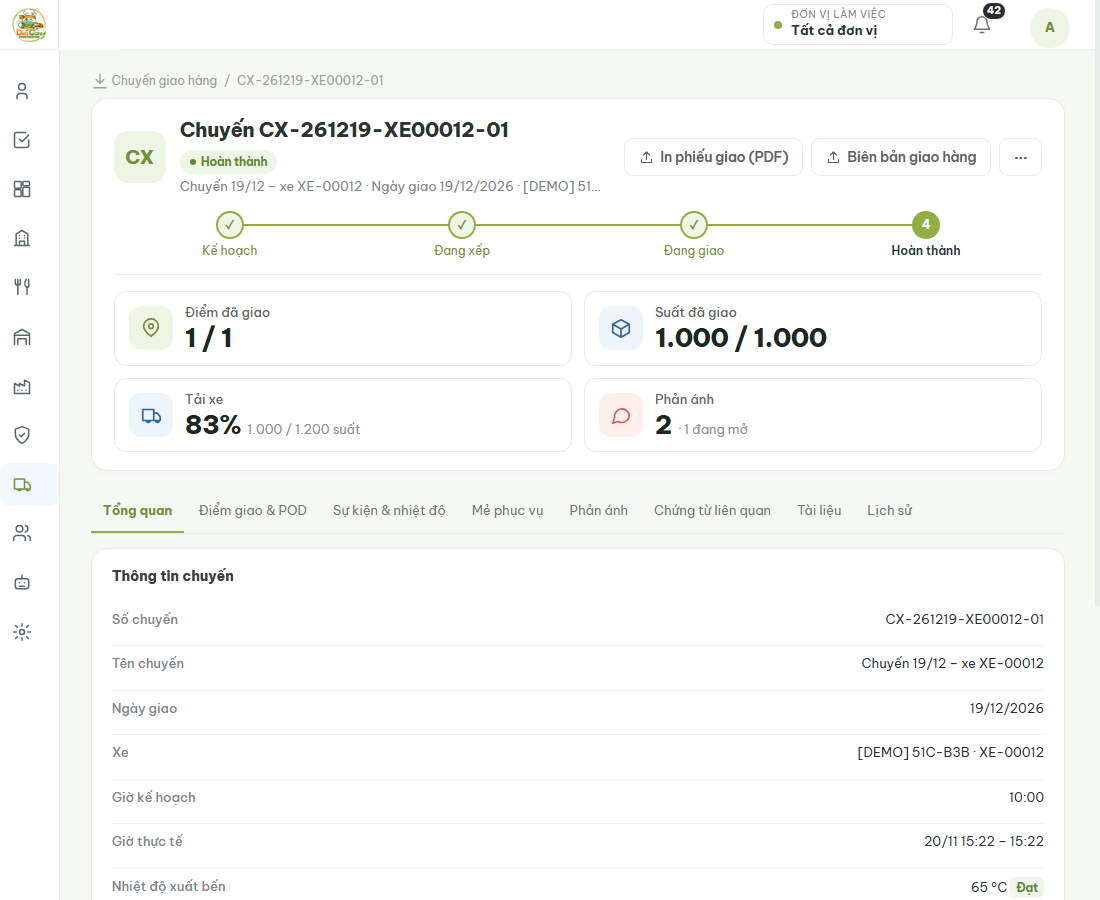
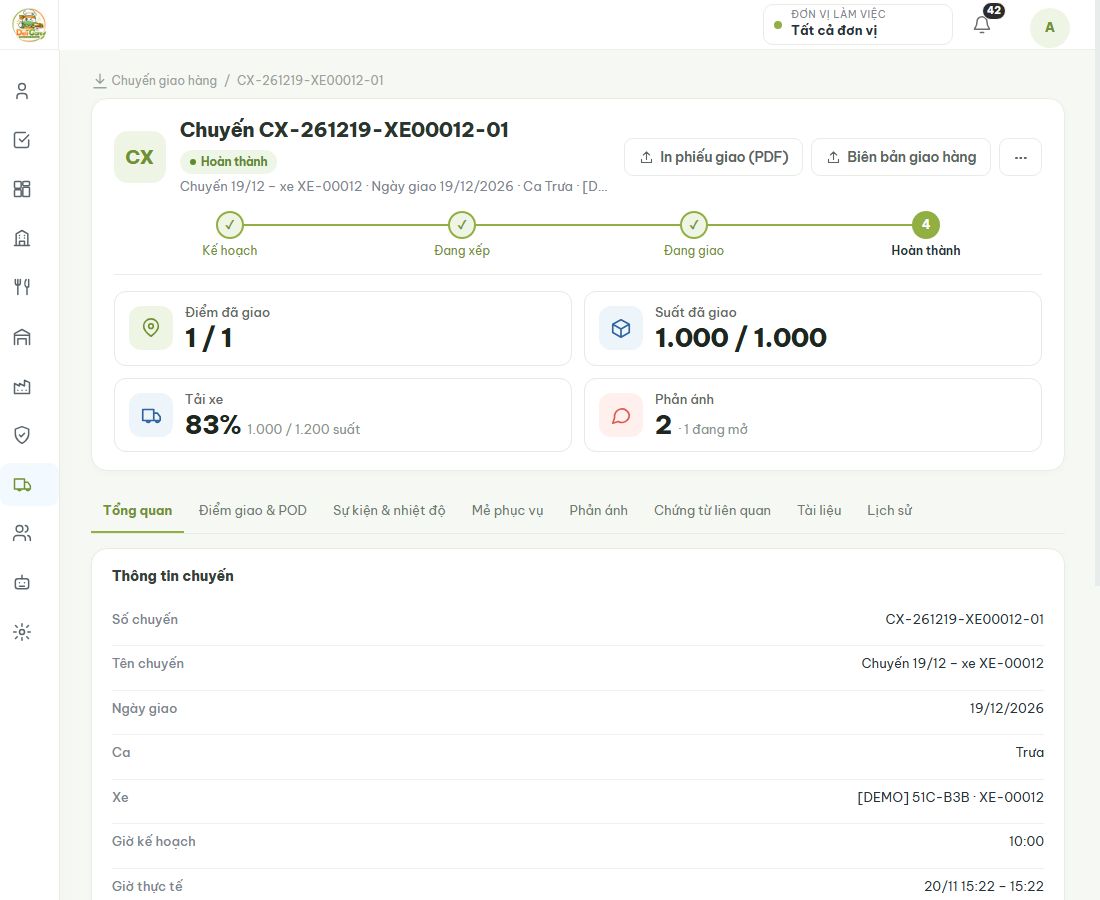
UI-6 (GAP): % đã nhận PO tính theo giá trị (không cộng số lượng khác đơn vị – GAP-PUR-01); ca của chuyến giao suy từ OrderLine.ShiftId (shiftNames, hiện ở phần đầu + Tổng quan); 2 test (608 / 608); PROGRESS ghi 3 điểm BOT-UX-2 anh đã đồng ý

diff --git a/app-delicare-client/src/assets/delicare/js/modules/detail-prod.js b/app-delicare-client/src/assets/delicare/js/modules/detail-prod.js
@@ -285,7 +285,7 @@
       return {
         title: 'Chuyến ' + (r.routeNo || ''), no: r.routeNo, avatar: 'CX', avatarCls: 'biz',
         tags: [s ? UI.badge(s, 'DeliveryRoute', 'Status') : '', (d.listBlocker || []).length && ['Planned', 'Loading'].includes(s) ? UI.tag('Chưa đủ điều kiện xuất bến', 'orange') : ''],
-        meta: [r.name && esc(r.name), 'Ngày giao ' + D.dmy(r.deliveryDate), esc([d.licensePlate || d.vehicleCode, d.driverName && 'Tài xế ' + d.driverName].filter(Boolean).join(' · '))],
+        meta: [r.name && esc(r.name), 'Ngày giao ' + D.dmy(r.deliveryDate), (o.shiftNames || []).length && esc('Ca ' + o.shiftNames.join(', ')), esc([d.licensePlate || d.vehicleCode, d.driverName && 'Tài xế ' + d.driverName].filter(Boolean).join(' · '))],
         steps: D.stepsOf(RFLOW, s, [], st('DeliveryRoute', 'Status')),
         buttons: [
           { act: 'load', icon: 'package', label: 'Xếp hàng lên xe', ok: edit && s === 'Planned', primary: true },
@@ -309,7 +309,7 @@
       const d = o.detail || {}, r = d.route || {}, stops = d.listStop || [];
       const tempOk = !nil(d.departureTemperatureC) && d.departureTemperatureC >= (d.deliveryTempMinC || 0);
       box.innerHTML = D.split(
-        D.block('Thông tin chuyến', D.kv([['Số chuyến', esc(r.routeNo || '')], ['Tên chuyến', esc(r.name || '')], ['Ngày giao', D.dmy(r.deliveryDate)],
+        D.block('Thông tin chuyến', D.kv([['Số chuyến', esc(r.routeNo || '')], ['Tên chuyến', esc(r.name || '')], ['Ngày giao', D.dmy(r.deliveryDate)], ['Ca', esc((o.shiftNames || []).join(', ') || '–')],
           ['Xe', esc([d.licensePlate, d.vehicleCode].filter(Boolean).join(' · '))], ['Tài xế', esc(d.driverName || '')],
           ['Giờ kế hoạch', esc([U.time(r.plannedStart), r.plannedEnd && U.time(r.plannedEnd)].filter(Boolean).join(' – '))],
           ['Giờ thực tế', esc([r.actualStart && U.dt(r.actualStart), r.actualEnd && U.time(r.actualEnd)].filter(Boolean).join(' – '))],

diff --git a/AppDelicare/AppDelicare.Tests/DetailPages/DetailPageRelatedDocsTests.cs b/AppDelicare/AppDelicare.Tests/DetailPages/DetailPageRelatedDocsTests.cs
@@ -60,6 +60,51 @@ namespace AppDelicare.Tests.DetailPages
             (await Rel("GoodsReceipt", gr)).Should().Equal(("PurchaseOrder", 1), ("MaterialLot", 1), ("SupplierIssue", 0));
         }
 
+        [Fact]
+        public async Task PurchaseOrder_received_percent_is_value_weighted_across_units()
+        {
+            // 10 kg thịt × 100.000 đã nhận đủ; 1.000 g gia vị × 1.000 chưa nhận → theo giá trị 50 % (cộng số lượng khác đơn vị sẽ ra ~1 %).
+            string k = Guid.NewGuid().ToString("N")[..6];
+            Guid wh = Guid.NewGuid(), kg = Guid.NewGuid(), g = Guid.NewGuid(), meat = Guid.NewGuid(), spice = Guid.NewGuid(), sup = Guid.NewGuid(), po = Guid.NewGuid(), gr = Guid.NewGuid();
+            await factory.SeedAsync(db =>
+            {
+                db.Warehouse.Add(new Warehouse { Id = wh, Code = "KHO-P" + k, Name = "Kho " + k });
+                db.UnitMeasure.AddRange(new UnitMeasure { Id = kg, Code = "KG-P" + k, Name = "kg" }, new UnitMeasure { Id = g, Code = "G-P" + k, Name = "g" });
+                db.Ingredient.AddRange(new Ingredient { Id = meat, Code = "NL-P1" + k, Name = "Thịt " + k, BaseUnitId = kg }, new Ingredient { Id = spice, Code = "NL-P2" + k, Name = "Tiêu " + k, BaseUnitId = g });
+                db.Supplier.Add(new Supplier { Id = sup, Code = "NCC-P" + k, Name = "NCC " + k, Status = "Active" });
+                db.PurchaseOrder.Add(new PurchaseOrder { Id = po, PurchaseOrderNumber = "PO-P" + k, SupplierId = sup, OrderDate = Day, Status = "PartiallyReceived", TotalAmount = 2_000_000 });
+                db.PurchaseOrderLine.AddRange(
+                    new PurchaseOrderLine { Id = Guid.NewGuid(), PurchaseOrderId = po, IngredientId = meat, Quantity = 10, UnitId = kg, UomId = kg, UnitPrice = 100_000, LineAmount = 1_000_000 },
+                    new PurchaseOrderLine { Id = Guid.NewGuid(), PurchaseOrderId = po, IngredientId = spice, Quantity = 1000, UnitId = g, UomId = g, UnitPrice = 1_000, LineAmount = 1_000_000 });
+                db.GoodsReceipt.Add(new GoodsReceipt { Id = gr, ReceiptNumber = "PN-P" + k, PurchaseOrderId = po, SupplierId = sup, WarehouseId = wh, ReceiptDate = Day, Status = "Posted" });
+                db.GoodsReceiptLine.Add(new GoodsReceiptLine { Id = Guid.NewGuid(), GoodsReceiptId = gr, IngredientId = meat, UnitId = kg, UomId = kg, Quantity = 10, ReceivedQuantity = 10, AcceptedQuantity = 10, UnitCost = 100_000 });
+                return Task.CompletedTask;
+            });
+            using var admin = factory.CreateAuthorizedClient();
+            var o = (await admin.GetResultAsync($"/api/PurchaseOrder/GetOverview?id={po}")).Ok();
+            o.GetProperty("receivedPercent").GetDecimal().Should().Be(50);
+        }
+
+        [Fact]
+        public async Task Route_overview_shows_shift_derived_from_its_orders()
+        {
+            string k = Guid.NewGuid().ToString("N")[..6];
+            Guid shift = Guid.NewGuid(), cust = Guid.NewGuid(), order = Guid.NewGuid(), route = Guid.NewGuid();
+            await factory.SeedAsync(db =>
+            {
+                db.Shift.Add(new Shift { Id = shift, Code = "CA-S" + k, Name = "Ca trưa " + k, StartTime = new TimeSpan(10, 30, 0), EndTime = new TimeSpan(13, 30, 0), Status = "Active" });
+                db.Customer.Add(new Customer { Id = cust, CIF = Guid.NewGuid().ToString("N")[..10], CustomerType = "FACTORY", DisplayName = "KH", Code = "KH-S" + k, Name = "Khách " + k, BranchId = Guid.NewGuid(), Status = "Active" });
+                db.Order.Add(new Order { Id = order, OrderNumber = "DH-S" + k, OrderNo = "DH-S" + k, CustomerId = cust, OrderDate = Day, MealDate = Day, DeliveryDate = Day, Status = "Confirmed" });
+                db.OrderLine.Add(new OrderLine { Id = Guid.NewGuid(), OrderId = order, ShiftId = shift, MealType = "LUNCH", Quantity = 100 });
+                db.DeliveryRoute.Add(new DeliveryRoute { Id = route, RouteNo = "CX-S" + k, Code = "CX-S" + k, DeliveryDate = Day, Status = "Planned" });
+                db.DeliveryOrder.Add(new DeliveryOrder { Id = Guid.NewGuid(), DeliveryNumber = "PG-S" + k, DeliveryNo = "PG-S" + k, OrderId = order, CustomerId = cust, DeliveryDate = Day, DeliveryRouteId = route, Status = "Planned" });
+                return Task.CompletedTask;
+            });
+            using var admin = factory.CreateAuthorizedClient();
+            var o = (await admin.GetResultAsync($"/api/DeliveryRoute/GetOverview?id={route}")).Ok();
+            o.GetProperty("shiftNames").EnumerateArray().Select(x => x.GetString()).Should().Equal("Ca trưa " + k);
+        }
+
         [Theory]
         [InlineData("Employee")]
         [InlineData("Ingredient")]

diff --git a/AppDelicare/AppDelicare.Services/Implement/PurchaseOrderService.cs b/AppDelicare/AppDelicare.Services/Implement/PurchaseOrderService.cs
@@ -702,11 +702,18 @@ namespace AppDelicare.Services.Implement
                     };
                 }).ToList();
                 decimal ordered = detail.ListLine.Sum(l => l.Quantity), received = detail.ListLine.Sum(l => l.ReceivedQuantity);
+                // % đã nhận: mỗi dòng tự đúng đơn vị của nó → gộp theo GIÁ TRỊ (Σ min(nhận, đặt) × giá / Σ đặt × giá) chứ không cộng số lượng khác đơn vị (GAP-PUR-01);
+                // PO chưa có giá → trung bình % từng dòng. Nhận vượt không làm % > 100.
+                var priced = detail.ListLine.Where(l => l.Quantity > 0 && l.UnitPrice > 0).ToList();
+                decimal pctBase = priced.Sum(l => l.Quantity * l.UnitPrice);
+                decimal receivedPercent = pctBase > 0
+                    ? priced.Sum(l => Math.Min(l.ReceivedQuantity, l.Quantity) * l.UnitPrice) / pctBase * 100m
+                    : detail.ListLine.Where(l => l.Quantity > 0).Select(l => Math.Min(l.ReceivedQuantity / l.Quantity, 1m) * 100m).DefaultIfEmpty(0m).Average();
                 return Result<PurchaseOrderOverviewModel>.Success(new PurchaseOrderOverviewModel
                 {
                     Detail = detail, ApprovalRequestId = await _approvalRequestService.LatestRequestIdAsync(PurchaseOrderStatus.BusinessType, id),
                     LineCount = detail.ListLine.Count, ReceiptCount = receipts.Count(r => r.Status != GoodsReceiptStatus.Cancelled),
-                    OrderedQuantity = ordered, ReceivedQuantity = received, ReceivedPercent = ordered > 0 ? Math.Round(received / ordered * 100m, 1) : 0m,
+                    OrderedQuantity = ordered, ReceivedQuantity = received, ReceivedPercent = Math.Round(receivedPercent, 1),
                     RemainingLineCount = detail.ListLine.Count(l => l.RemainingQuantity > 0),
                     RejectedQuantity = qc.Where(r => r.Status != GoodsReceiptStatus.Cancelled).Sum(r => r.RejectedQuantity),
                     ListReceiptQc = qc,

diff --git a/AppDelicare/AppDelicare.Services/Implement/DeliveryRouteService.cs b/AppDelicare/AppDelicare.Services/Implement/DeliveryRouteService.cs
@@ -1255,9 +1255,17 @@ namespace AppDelicare.Services.Implement
                                             ComplaintStatus = c.ComplaintStatus, ReceivedAt = c.ReceivedAt, Description = c.Description,
                                         }).ToListAsync();
                 var stops = detail.ListStop;
+                // Chuyến không có cột ca → suy từ ca của các dòng đơn trên các phiếu giao của chuyến (OrderLine.ShiftId).
+                var shiftNames = await (from d in db.DeliveryOrder.AsNoTracking()
+                                        where !d.IsDeleted && d.DeliveryRouteId == id
+                                        join l in db.OrderLine.AsNoTracking() on d.OrderId equals l.OrderId
+                                        where !l.IsDeleted && l.ShiftId != null
+                                        join sh in db.Shift.AsNoTracking() on l.ShiftId equals sh.Id
+                                        select sh.Name ?? sh.Code).Distinct().ToListAsync();
                 return Result<DeliveryRouteOverviewModel>.Success(new DeliveryRouteOverviewModel
                 {
                     Detail = detail,
+                    ShiftNames = shiftNames.Where(n => !string.IsNullOrWhiteSpace(n)).OrderBy(n => n).ToList()!,
                     StopCount = stops.Count,
                     DeliveredStopCount = stops.Count(s => s.StopStatus == DeliveryStopStatus.Delivered),
                     FailedStopCount = stops.Count(s => s.StopStatus == DeliveryStopStatus.Failed),

diff --git a/AppDelicare/AppDelicare.Model/Model/DetailPageProdModels.cs b/AppDelicare/AppDelicare.Model/Model/DetailPageProdModels.cs
@@ -120,6 +120,8 @@ namespace AppDelicare.Model.Model
     public class DeliveryRouteOverviewModel
     {
         public DeliveryRouteDetailModel Detail { get; set; } = new();
+        /// <summary>Ca suy từ các đơn trên chuyến (DeliveryRoute không có ShiftId).</summary>
+        public List<string> ShiftNames { get; set; } = [];
         public int StopCount { get; set; }
         public int DeliveredStopCount { get; set; }
         public int FailedStopCount { get; set; }

diff --git a/docs/claude/PROGRESS.md b/docs/claude/PROGRESS.md
@@ -9,12 +9,14 @@
   - Nút phần đầu gọi lại **đúng** thao tác đang có ở danh sách (`APP.scmStockCount / scmPo / scmGr / scmPr / scmLot / crmOrder / crmContract / logComplaint / prodBatch / prodOrder / prodPlan / logRoute`); chế độ DEMO giữ ngăn trượt. Quyền mỗi API = Xem màn danh sách gốc. Không thêm bảng / cột.
   - **6.3 Kiểm thử:** `Tests/DetailPages` 15 test (dữ liệu, id sai, rỗng, quyền 200 / 403); toàn bộ **588 / 588** sau gộp nhóm; Chrome headless mở 15 trang + 3 màn 360 ở 1440 / 1100 / 390 (54 ảnh `docs/frontend-handoff/assets/ui-6/`), bấm qua mọi tab ở 1440 – không lỗi JS, tab chuẩn mà máy chủ chưa hỗ trợ đã ẩn. HDSD 02 / 03 / 04 / 05 / 07 / 09 + UAT_CHECKLIST 3 mục "TRANG CHI TIẾT".
   - **Sau gộp (nhánh `feat/UI-6-gap-followup`):** đóng các GAP làm được bằng code (không bảng / cột): `CommonRelations` thêm nhóm "Chứng từ liên quan" cho Phiếu nhập (PO, lô, sự cố NCC), Đề nghị mua (PO), Phản ánh (đơn, phiếu giao), Kế hoạch SX (lệnh, mẻ), Lệnh SX (mẻ, phiếu xuất), Mẻ (lệnh, phiếu xuất), Chuyến giao (phiếu giao, phản ánh), Điểm giao (phiếu giao); `CommonRegistry` cho đính kèm tệp ở Nguyên liệu / Lô / Lệnh SX / Kế hoạch SX / Món / Nhân viên (sửa luôn tab Tài liệu + Lịch sử báo "không hỗ trợ" ở màn NV 360) và thêm danh sách **Điểm giao** (Lịch sử / Tài liệu / xuất Excel / thống kê trạng thái). Test `DetailPages/DetailPageRelatedDocsTests` (8 nhóm liên quan + 7 danh sách Tài liệu); toàn bộ **606 / 606**; Chrome: 15 trang + 3 màn 360 bấm hết tab không lỗi (Phiếu kiểm kê vẫn không có tab Liên quan – không có khóa ngoại tới chứng từ khác).
-  - **GAP còn lại (cần bảng / cột – chờ anh):** chưa có đánh giá theo món; kế hoạch SX duyệt tay không có lịch sử duyệt; QcInspection chỉ gắn phiếu nhập; chuyến giao không có ca; % đã nhận PO cộng số lượng khác đơn vị (GAP-PUR-01); đơn bù chỉ nối qua chữ trong `Order.Note`.
+  - **Đóng thêm 2 GAP không cần cột:** % đã nhận của PO tính **theo giá trị** (Σ min(nhận, đặt) × đơn giá / Σ đặt × đơn giá; PO chưa có giá → trung bình % từng dòng) thay vì cộng số lượng khác đơn vị; trang Chuyến giao hiện **ca** suy từ `OrderLine.ShiftId` của các đơn trên chuyến (`shiftNames`). Test thêm 2 (608 / 608); DB dev: chuyến mẫu "Ca Trưa", PO mẫu 100 %.
+  - **GAP còn lại (cần bảng / cột – chờ anh):** chưa có đánh giá theo món; kế hoạch SX duyệt tay không có lịch sử duyệt (ngoài Lịch sử thay đổi); QcInspection chỉ gắn phiếu nhập (QC mẻ dựng từ nhiệt độ lõi / mẫu lưu); đơn bù chỉ nối qua chữ trong `Order.Note`; phiếu nhập vẫn khớp dòng PO theo nguyên liệu (GAP-PUR-01).
+  - **BOT-UX-2 – 3 điểm anh đã đồng ý (2026-11-23):** nhiệt độ bàn giao điền sẵn lần đo lúc xuất phát khi chưa đo tại điểm; người nhận điền sẵn người nhận gần nhất / "Đại diện <khách>"; "ca hiện tại" suy theo giờ.
 - **2026-11-23: BOT-UX-2 DONE (chờ anh chốt 3 điểm) – Thao tác bot Vận hành tối đa 3 chạm, không gõ tay** (nhánh `feat/BOT-UX-2-thao-tac`; đã gộp vào `main`). Chỉ `AppDelicare.Messaging` (+ test, HDSD 20, appsettings `Messaging:Reasons`), không đổi bảng / cột / API.
   - **Hiện trạng trước khi sửa:** 2 nút Quay lại trên 1 màn; ◀ luôn về màn đầu chức năng; đường dẫn chỉ tới chức năng; 3 phím chỉ gửi khi liên kết, /chamcong đè bằng bàn phím 1 nút; 67 chỗ ForceReply (~20 hỏi số); trả lời nút rỗng; danh sách tới 12 nút không trang / lọc; ô "·", 6 chức năng trùng phân hệ.
   - **Đã làm:** ngăn xếp theo màn (`Experience/Screens.cs` – ◀ mở lại đúng màn trước, không phát lại thao tác ghi), mỗi màn 1 nút Quay lại, đường dẫn đủ cấp; 3 phím gửi lại khi /menu /ca /help và lần đầu sau khởi động; màn số `InputWidgets.Number` (−10 −1 +1 +10, chọn nhanh, ✅) + nhiệt độ lõi 70–80° 1 chạm; nút lý do `ReasonCatalog` (9 luồng) + ✏ Khác…; mọi nút có chữ trả lời; dòng "✅ … · HH:mm" đầu thẻ; `ListPager` 6 mục / trang (13 danh sách), việc gấp lên đầu; màn đầu phẳng khi ≤ 6 chức năng; bỏ bản trùng (/vesinh /congthang /truyxuatlo giữ, /thucdontuan bỏ → /thucdon); tài xế [✅ Giao đủ N · t°] 1 chạm.
   - **Test:** `MessagingBotUx2Tests` 10 test; `tools/bot-smoke/flow-botux2.mjs` (chỉ xem, chưa chạy với DB dev).
-  - **Chờ anh chốt:** nhiệt độ bàn giao điền sẵn lấy lần đo lúc xuất phát (điểm ATTP); người nhận điền sẵn người nhận gần nhất / "Đại diện <khách>"; "ca hiện tại" suy theo giờ (không có API ca hiện tại).
+  - **Anh đã đồng ý (2026-11-23):** nhiệt độ bàn giao điền sẵn lấy lần đo lúc xuất phát (điểm ATTP); người nhận điền sẵn người nhận gần nhất / "Đại diện <khách>"; "ca hiện tại" suy theo giờ (không có API ca hiện tại).
   - **Sau gộp:** HDSD 07 / 09 / 10 / 12 §7 đã sửa theo luồng mới; `tools/bot-smoke/flow-botux2.mjs` chạy trên DB dev (Telegram giả + messaging `DOTNET_ENVIRONMENT=Development` để nạp khóa client từ user-secrets) – **đạt hết** (DB dev hôm nay không có mẻ nên chưa đi tới thẻ mẻ).
   - **Việc còn lại:** nhãn "BOT-UX-2 – TODO" ở BOT_TELEGRAM §1.4 (file anh đang sửa – em không đụng).
 - **2026-11-23: APR-UI-1 (D-81) DONE (chờ anh mở thử) – Phê duyệt: một màn tổng + khuôn tóm tắt chung** (nhánh `feat/APR-UI-1-approval-hub` tách từ `fix/UI-2R-detail-head` – đã có MENU-5; chưa push). UI-6 chưa bắt đầu (`TODO`) nên làm APR-UI-1 trước như ROADMAP; tab Duyệt của UI-6 sẽ dùng lại khuôn 1.2.
